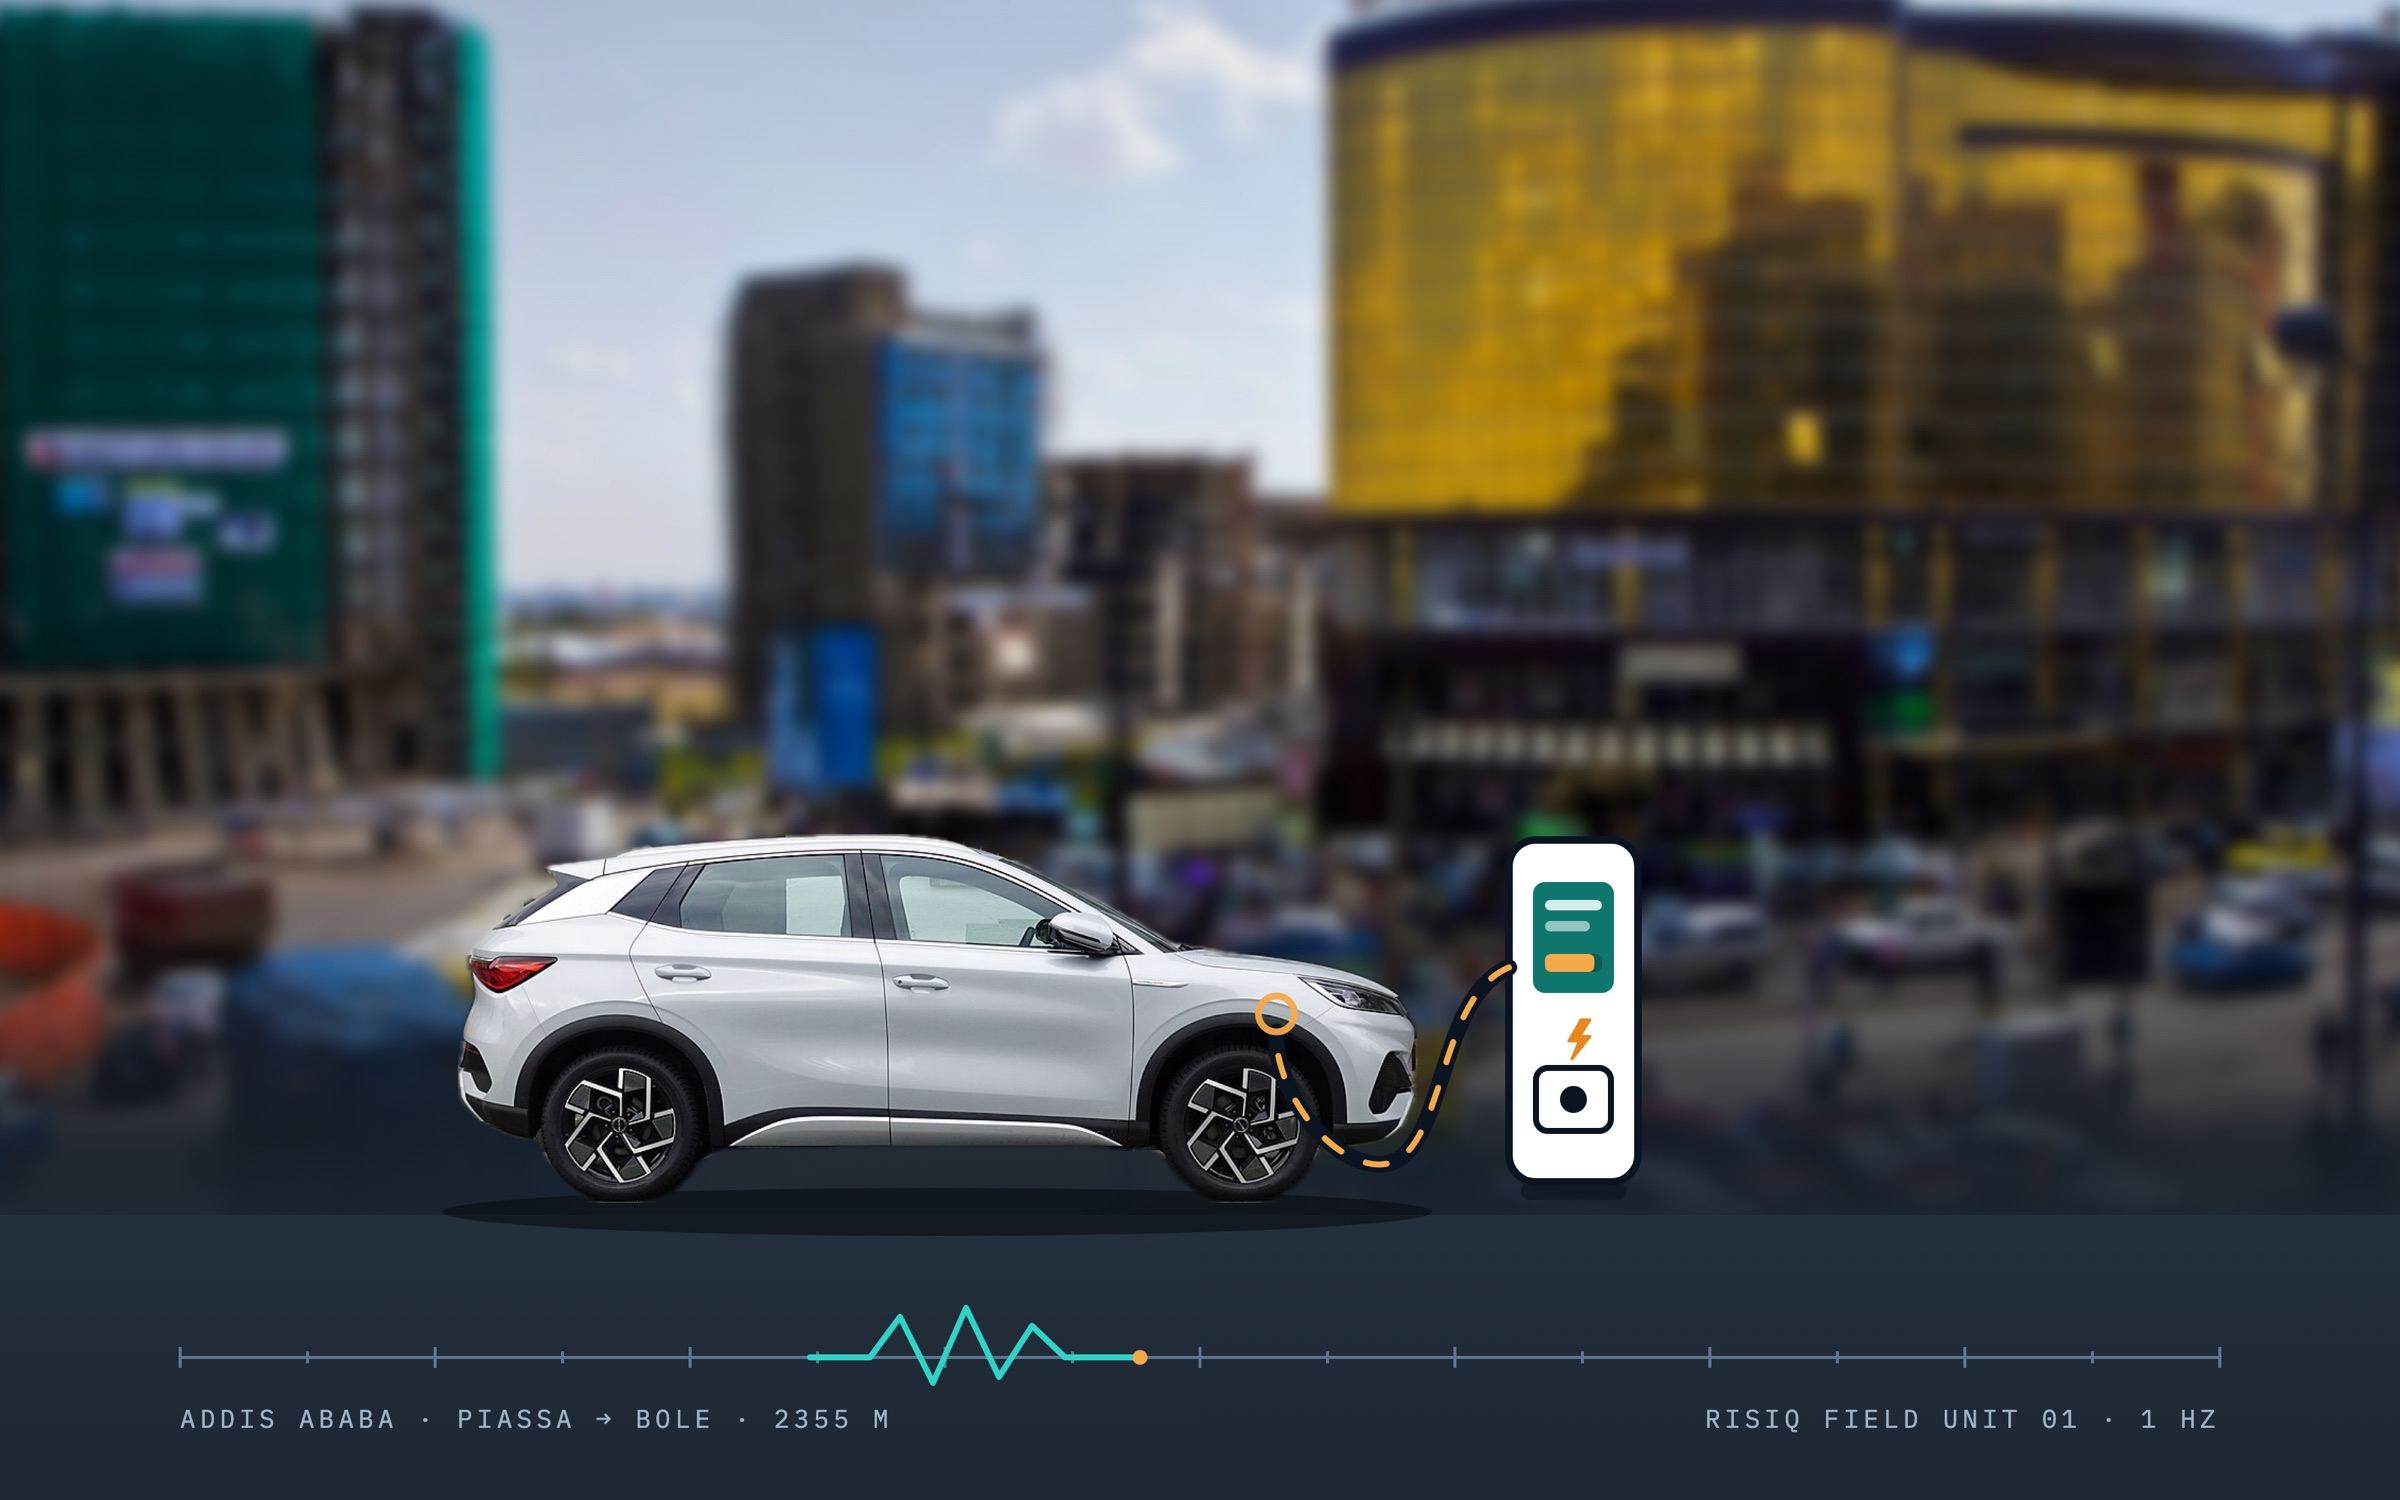
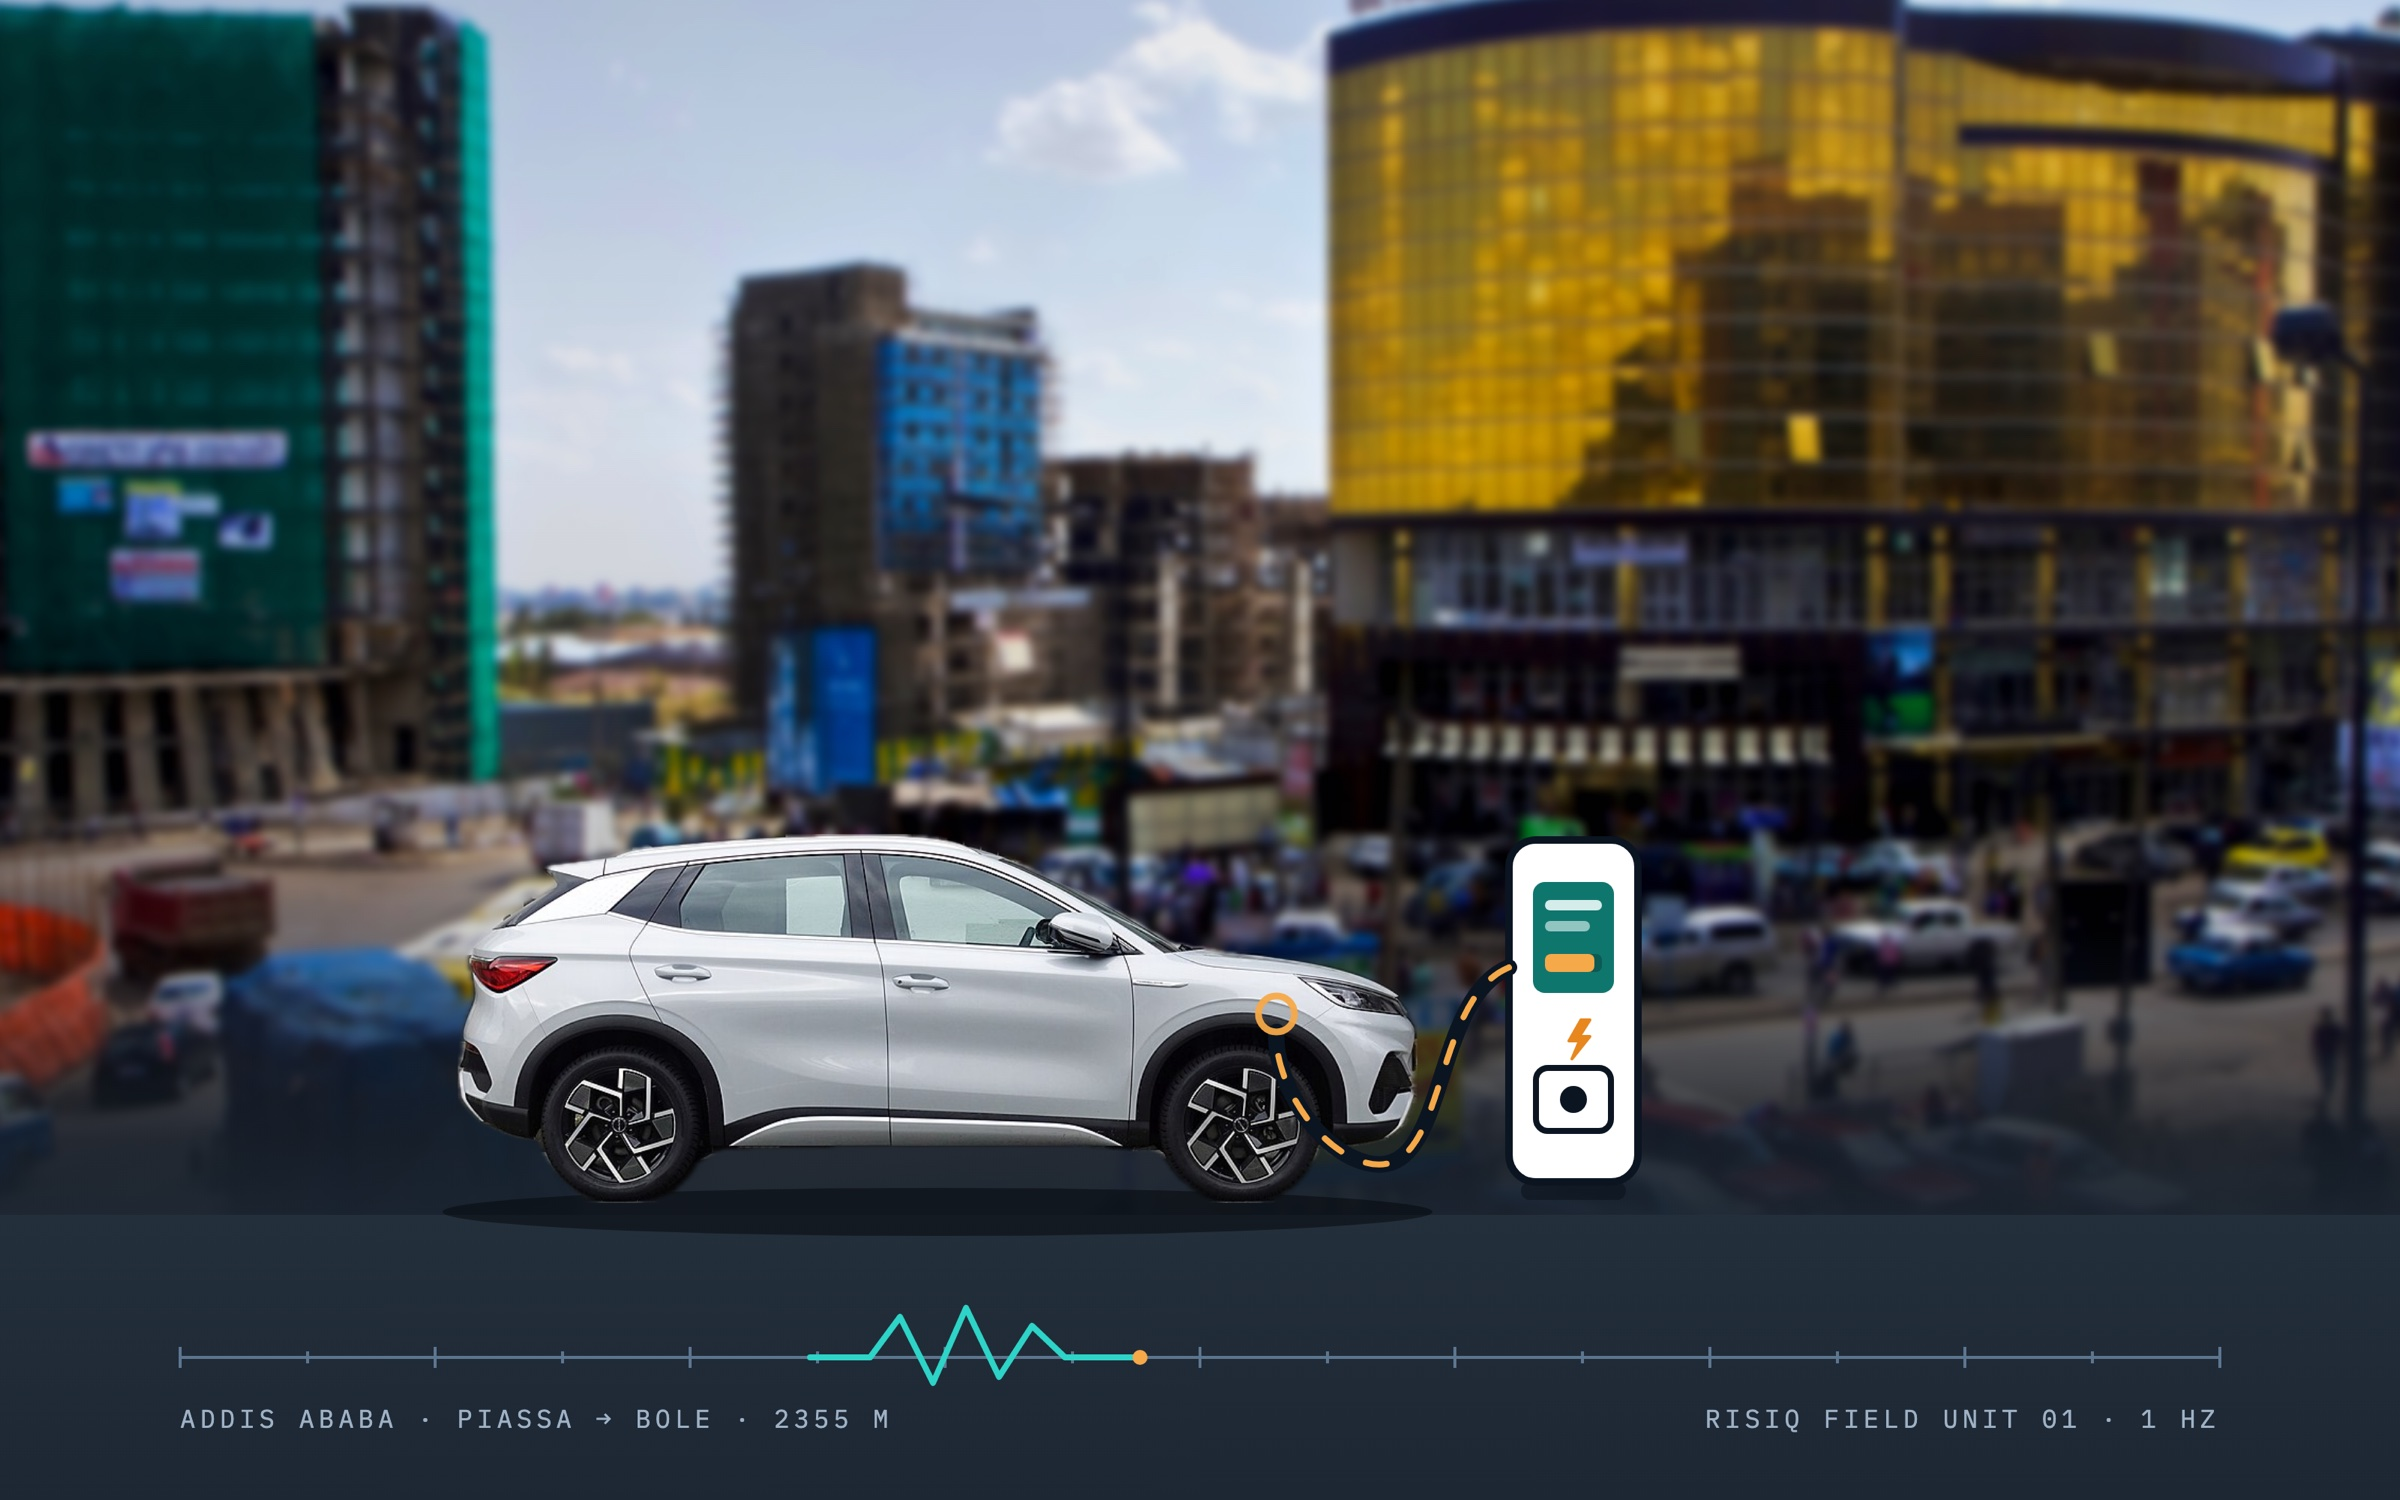
Red-brand certificate in hero, HQ photo composite, vanilla dynamics
Recreate the red RISIQ battery-health certificate (94% / Grade A) as a
high-res PNG and feature it in a new two-column hero (fixes the empty
right side) plus the certificate section, with lightbox zoom. Rebuild
the Addis composite from the full-resolution source photo with lighter
blur. Add Hidaya-style vanilla JS dynamics: staggered card reveals,
scroll-aware nav shadow, back-to-top button, hero parallax, lightbox.
Align the How-It-Works mockup numbers with the certificate.

diff --git a/index.html b/index.html
@@ -51,17 +51,22 @@
   <!-- HERO -->
   <section class="hero">
     <div class="wrap">
-      <div style="max-width:720px;">
-        <span class="eyebrow">EV Battery Intelligence &amp; Certification</span>
-        <h1>The battery truth behind Ethiopia's electric future.</h1>
-        <p class="lede">Independent, engineering-grade EV battery-health certification — built for the locked, imported fleet now filling the streets of Addis Ababa.</p>
-        <div class="hero-cta">
-          <a href="contact.html" class="btn btn-primary">Book the Pilot Briefing</a>
-          <a href="how-it-works.html" class="btn btn-ghost">See How It Works</a>
+      <div class="hero-grid2">
+        <div>
+          <span class="eyebrow">EV Battery Intelligence &amp; Certification</span>
+          <h1>The battery truth behind Ethiopia's electric future.</h1>
+          <p class="lede">Independent, engineering-grade EV battery-health certification — built for the locked, imported fleet now filling the streets of Addis Ababa.</p>
+          <div class="hero-cta">
+            <a href="contact.html" class="btn btn-primary">Book the Pilot Briefing</a>
+            <a href="how-it-works.html" class="btn btn-ghost">See How It Works</a>
+          </div>
+          <p class="hero-note">A partnership briefing for insurers, importers, banks, government agencies &amp; investors — Addis Ababa.</p>
         </div>
-        <p class="hero-note">A partnership briefing for insurers, importers, banks, government agencies &amp; investors — Addis Ababa.</p>
+        <div class="reveal">
+          <img class="cert-float" src="assets/img/certificate-risiq.png" data-lightbox alt="RISIQ Battery Health Certificate — 94% State of Health, Grade A, QR-verifiable" width="2000" height="2540">
+        </div>
       </div>
-      <figure class="hero-figure reveal" style="margin-bottom:0;">
+      <figure class="hero-figure reveal" style="margin:64px 0 0;">
         <img src="assets/img/hero-addis.jpg" alt="A BYD Atto 3 charging at a RISIQ test unit against the Addis Ababa skyline" width="1600" height="1000">
         <figcaption style="padding:10px 18px; font-size:0.72rem; color:#8496ad; border-top:1px solid #1d3350; background:#0c1626;">BYD Atto 3 — the best-selling EV on Ethiopian roads. Photos: Hubert Berberich · DFID (CC BY), composited.</figcaption>
       </figure>
@@ -243,7 +248,7 @@
         <p class="quote" style="margin-top:34px; font-size:1.05rem;">In Europe, a certified EV sells for hundreds of euros more — and faster. In Ethiopia, this certificate is the missing layer of trust.</p>
       </div>
       <figure class="cert-figure reveal" style="margin:0;">
-        <img src="assets/img/certificate-sample.png" alt="Sample RISIQ battery health certificate showing an 87.4% State-of-Health, grade B, measured charge curve and QR verification" width="1240" height="1650">
+        <img src="assets/img/certificate-risiq.png" data-lightbox alt="Sample RISIQ Battery Health Certificate — 94% State of Health, Grade A, with QR verification" width="2000" height="2540">
       </figure>
     </div>
   </section>

diff --git a/assets/js/main.js b/assets/js/main.js
@@ -14,6 +14,17 @@
     });
   }
 
+  /* Stagger: expand group reveals into per-child reveals */
+  document.querySelectorAll('.grid.reveal, .steps.reveal, .compare.reveal').forEach(function (group) {
+    var kids = Array.prototype.filter.call(group.children, function (c) { return c.nodeType === 1; });
+    if (kids.length < 2) return;
+    group.classList.remove('reveal');
+    kids.forEach(function (kid, i) {
+      kid.classList.add('reveal');
+      kid.style.transitionDelay = (i * 90) + 'ms';
+    });
+  });
+
   /* Scroll reveal */
   var revealEls = document.querySelectorAll('.reveal');
   if (revealEls.length) {
@@ -90,4 +101,52 @@
   /* Current year in footer */
   var yearEl = document.querySelector('[data-year]');
   if (yearEl) yearEl.textContent = new Date().getFullYear();
+
+  /* Back to top */
+  var toTop = document.createElement('button');
+  toTop.className = 'to-top';
+  toTop.setAttribute('aria-label', 'Back to top');
+  toTop.innerHTML = '<svg viewBox="0 0 24 24" fill="none" stroke="currentColor" stroke-width="2.2" width="18" height="18"><path d="M12 19V5M5 12l7-7 7 7" stroke-linecap="round" stroke-linejoin="round"/></svg>';
+  document.body.appendChild(toTop);
+  toTop.addEventListener('click', function () {
+    window.scrollTo({ top: 0, behavior: reduceMotion ? 'auto' : 'smooth' });
+  });
+
+  /* Nav shadow + back-to-top visibility + hero parallax */
+  var navEl = document.querySelector('.site-nav');
+  var heroImg = document.querySelector('.hero-figure img');
+  function onScroll() {
+    if (navEl) navEl.classList.toggle('scrolled', window.scrollY > 24);
+    toTop.classList.toggle('show', window.scrollY > 600);
+    if (!reduceMotion && heroImg) {
+      var y = Math.min(window.scrollY * 0.06, 60);
+      heroImg.style.transform = 'translateY(' + y + 'px)';
+    }
+  }
+  window.addEventListener('scroll', onScroll, { passive: true });
+  onScroll();
+
+  /* Lightbox for images marked data-lightbox */
+  var lbImgs = document.querySelectorAll('img[data-lightbox]');
+  if (lbImgs.length) {
+    var overlay = document.createElement('div');
+    overlay.className = 'lightbox';
+    overlay.innerHTML = '<img alt="">';
+    document.body.appendChild(overlay);
+    var overlayImg = overlay.querySelector('img');
+    function closeLb() {
+      overlay.classList.remove('open');
+      document.body.style.overflow = '';
+    }
+    lbImgs.forEach(function (img) {
+      img.addEventListener('click', function () {
+        overlayImg.src = img.src;
+        overlayImg.alt = img.alt || '';
+        overlay.classList.add('open');
+        document.body.style.overflow = 'hidden';
+      });
+    });
+    overlay.addEventListener('click', closeLb);
+    document.addEventListener('keydown', function (e) { if (e.key === 'Escape') closeLb(); });
+  }
 })();

diff --git a/assets/css/styles.css b/assets/css/styles.css
@@ -469,6 +469,51 @@ section { padding: 96px 0; position: relative; z-index: 1; }
 }
 .quote cite { display: block; font-style: normal; font-family: var(--font-mono); font-size: 0.82rem; color: var(--text-faint); margin-top: 14px; }
 
+/* ---------- hero two-column + floating certificate ---------- */
+.hero-grid2 { display: grid; grid-template-columns: 1.08fr 0.92fr; gap: 56px; align-items: center; }
+@media (max-width: 900px) { .hero-grid2 { grid-template-columns: 1fr; } }
+.cert-float {
+  max-width: 420px; width: 100%; height: auto; margin: 0 auto; display: block;
+  border-radius: 16px;
+  box-shadow: 0 30px 70px rgba(0,0,0,0.5);
+  transform: rotate(2.5deg);
+  cursor: zoom-in;
+  animation: certFloat 7s ease-in-out infinite;
+}
+@keyframes certFloat {
+  0%, 100% { transform: rotate(2.5deg) translateY(0); }
+  50% { transform: rotate(2.5deg) translateY(-12px); }
+}
+@media (prefers-reduced-motion: reduce) { .cert-float { animation: none; } }
+
+/* ---------- nav scrolled state ---------- */
+.site-nav.scrolled .nav-inner { background: #ffffff; box-shadow: 0 8px 28px rgba(15,27,45,0.14); }
+
+/* ---------- back to top ---------- */
+.to-top {
+  position: fixed; right: 22px; bottom: 22px; z-index: 50;
+  width: 46px; height: 46px; border-radius: 50%;
+  border: 1px solid var(--line); background: #ffffff; color: var(--ink);
+  display: flex; align-items: center; justify-content: center; cursor: pointer;
+  box-shadow: var(--shadow-card);
+  opacity: 0; pointer-events: none; transform: translateY(8px);
+  transition: opacity 200ms var(--ease), transform 200ms var(--ease), border-color 200ms var(--ease);
+}
+.to-top.show { opacity: 1; pointer-events: auto; transform: none; }
+.to-top:hover { border-color: var(--teal-hi); color: var(--teal-hi); }
+
+/* ---------- lightbox ---------- */
+.lightbox {
+  position: fixed; inset: 0; z-index: 100;
+  background: rgba(8,13,20,0.88);
+  display: flex; align-items: center; justify-content: center;
+  opacity: 0; pointer-events: none; cursor: zoom-out;
+  transition: opacity 220ms var(--ease);
+}
+.lightbox.open { opacity: 1; pointer-events: auto; }
+.lightbox img { max-width: min(92vw, 880px); max-height: 92vh; border-radius: 14px; box-shadow: 0 40px 90px rgba(0,0,0,0.6); }
+.cert-figure img { cursor: zoom-in; height: auto; }
+
 /* ---------- reveal animation ---------- */
 .reveal { opacity: 0; transform: translateY(16px); transition: opacity 600ms var(--ease), transform 600ms var(--ease); }
 .reveal.in { opacity: 1; transform: translateY(0); }

diff --git a/how-it-works.html b/how-it-works.html
@@ -152,13 +152,13 @@
             <span class="pill">RISIQ Certified</span>
             <h3 style="margin-top:14px;">Battery-Health Report</h3>
           </div>
-          <span class="cert-grade">B</span>
+          <span class="cert-grade">A</span>
         </div>
         <div class="cert-rows">
           <div class="cert-row"><span>VIN / model / test date</span><span>on record</span></div>
           <div class="cert-row"><span>Operator / test type</span><span>Reference</span></div>
-          <div class="cert-row"><span>State of health</span><span>87.4%</span></div>
-          <div class="cert-row"><span>Usable capacity / range</span><span>52.3 kWh / 310 km</span></div>
+          <div class="cert-row"><span>State of health</span><span>94%</span></div>
+          <div class="cert-row"><span>Usable capacity / range</span><span>57.8 kWh / 402 km</span></div>
           <div class="cert-row"><span>Anomaly flags</span><span>None</span></div>
         </div>
         <div style="display:flex; justify-content:space-between; align-items:flex-end; margin-top:22px;">
